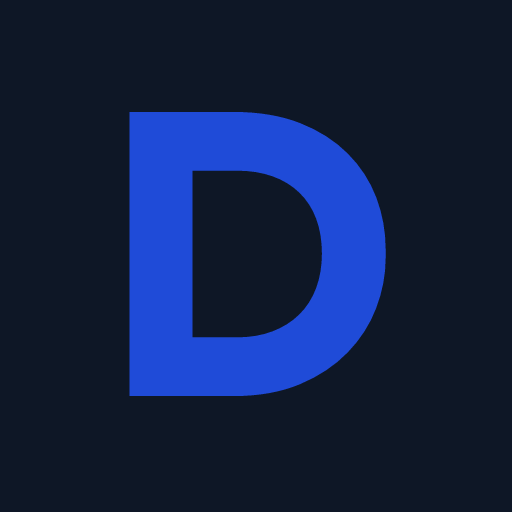
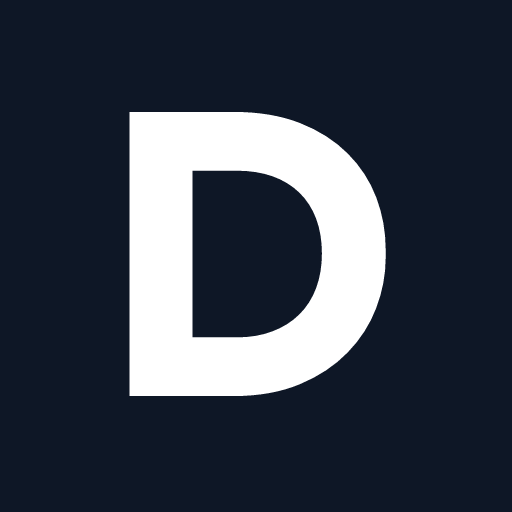
Draw the placeholder D as a path in the card colour.
Browsers no longer substitute their own Sora, and the letter uses the light text colour on ink so the 16px mark stays readable.

Changed region(s): [[0.25, 0.2188, 0.7812, 0.7812]]

diff --git a/tests/brand-mark.test.ts b/tests/brand-mark.test.ts
@@ -50,13 +50,16 @@ describe("brand mark", () => {
     expect(layout).not.toMatch(/rev\s*b/i);
   });
 
-  it("ships a D monogram from the day ink and blueprint tokens", () => {
+  it("ships a path D in the day card colour on an ink tile", () => {
     const ink = dayToken("ink");
-    const blueprint = dayToken("blueprint");
+    // Pressed theme toggle: light text on ink is --card, not blueprint.
+    const onInk = dayToken("card");
     const svg = read("src/app/icon.svg").toString("utf8");
     expect(svg).toContain(`fill="${ink}"`);
-    expect(svg).toContain(`fill="${blueprint}"`);
-    expect(svg).toContain(">D<");
+    expect(svg).toContain(`fill="${onInk}"`);
+    expect(svg).not.toContain(`fill="${dayToken("blueprint")}"`);
+    expect(svg).toContain("<path");
+    expect(svg).not.toContain("<text");
     expect(svg).not.toMatch(/set-square|M21 43/i);
 
     const frames = icoFrames(read("src/app/favicon.ico"));

diff --git a/scripts/brand-icon.ts b/scripts/brand-icon.ts
@@ -2,7 +2,8 @@
  * Rasterize `src/app/icon.svg` into the Next.js app icons.
  *
  * The SVG is the only artwork. Day tokens live in that file (`--ink` and
- * `--blueprint` from `src/app/globals.css`). Replace the SVG, then run:
+ * `--card`, the light text colour on ink, from `src/app/globals.css`).
+ * Replace the SVG, then run:
  *
  *   npm run brand-icon
  *

diff --git a/docs/ROADMAP.md b/docs/ROADMAP.md
@@ -22,7 +22,6 @@ Status of Defend It on `main` as of 22 Oct 2026. #2, #3 (including #13 and #14),
 - **Shareable receipt cards.** `/r/[id]` emits Open Graph and Twitter `summary_large_image` metadata and a 1200×630 image drawn by the same helper as challenge cards (`renderOgCard`). The headline uses the tiers in `src/lib/challenge-tier.ts` (Strong at 85, Defended from 70 to 84, otherwise Still sharpening). A challenge result keeps the visibility the defender stored: public shows the score, score-hidden shows the tier and not the number, and private is a generic card. A sample demo (`payload.demo.sample`, read through `getReceipt`) says "Sample demo · Not a credential" and shows no score. The image URL includes the visibility so a change misses the cache.
 - **Live calibration follow-up** ([#19](https://github.com/torukmakto3/defendit/issues/19)). The 2026-10-22 Liquid council run (gpt-oss-120b, deepseek-v3.2, llama-3.3-70b-instruct) is in `docs/calibration/2026-10-22-live.md`. The grader timeout default is 55s, inside the 120s defend route. A grader retries once on 503 overloaded and 404 model_not_found, and that retry still goes through the per-defense cost cap. An all-non-answer defense scores zero without calling the council, and that receipt is labeled `rule:non-answer` rather than a council model. The grading prompt is rubric `defend-it-rubric-v0.5`. `GRADER_TIMEOUT_MS` is clamped near 59s, and a budget-fallback grader stops 10s before the route deadline. Calibration uses authored strong answers and an on-topic vague weak set. `npm run calibrate` refuses a live router or a council under two pinned models, reuses one claim map per fixture, and prints per-model scores, disagreements of 2+ rubric levels, latency, and cost.
 - **First-party funnel analytics** ([#46](https://github.com/torukmakto3/defendit/pull/46)). `analytics_events` counts a 7-day beta funnel by event name: landing, sign-in, defense, Learn opens, receipt share, and the challenge steps. No third-party tracker, no analytics cookies, no IP or user agent, no account, session, receipt, or challenge id, and no document content. Anonymous visits honor Do Not Track and Global Privacy Control. Events older than 90 days are deleted by the purge job. `/admin` shows the last 7 days and the conversion between steps. Challenge steps are recorded from `src/lib/challenges.ts` (no account, session, receipt, or challenge id). `GET /api/stats` (Bearer `STATS_TOKEN`) returns counts only for the daily dashboard. Unset `STATS_TOKEN` answers 404; a wrong token answers 401. Beacon and stats limits use `ipLimitKey`. When `ipHash` is null those per-address buckets are skipped, and the beacon still enforces the global cap. `rate_limits` does not store the address. `/privacy` describes the event row. Sample demos — request kind `demo`, an email ending in `@demo.defendit.invalid`, or a receipt `payload.demo` — stay out of sign-ups, defenses, pass rates, receipts, and average cost, and are reported as `demo.started`, `demo.completed`, and `demo.budget_cents`. A defense with kind `demo` is not written, so it stays out of the `/admin` event steps. `ANALYTICS_ENABLED=false` turns recording off.
-- **Tab icon** ([#55](https://github.com/torukmakto3/defendit/issues/55)). Placeholder while the logo is on hold: a plain D in day `blueprint` on a day `ink` tile, both from `src/app/globals.css`. `src/app/icon.svg` is the source. `npm run brand-icon` writes `favicon.ico` (16/32/48), `icon.png` (512), and an opaque `apple-icon.png` (180). The header no longer shows the Rev B label.
 
 ## Next
 

diff --git a/docs/HANDOFF.md b/docs/HANDOFF.md
@@ -9,6 +9,7 @@ YYYY-MM-DD BLOCKED — what stopped the work · what the next agent needs
 
 ## Log
 
+2026-10-22 DONE — Tab icon D is a path in day card on the ink tile, so the browser glyph matches the PNG and ICO and the 16px mark is light-on-ink. Roadmap bullet removed. · PR #56 · tsc, eslint, vitest (384), brand e2e
 2026-10-23 DONE — support@defendit.me for legal, privacy, score review, and deletion; hello@defendit.me for general FAQ contact. The placeholder email and its legal-review TODO are gone; draft marks on the legal pages stay. Webhook lists include charge.succeeded (17 events, matching HANDLED). · PR #58 · tsc, eslint, vitest (447), e2e (14)
 2026-10-22 DONE — Yearly refill stop is written in the refund transaction, and Stripe Checkout is rebased onto ef320ab (#46). Funnel analytics and the Stripe paragraph both stay. Billing stays off. · PR #47 · tsc, eslint, vitest (425)
 2026-10-22 DONE — Stripe credit follow-up on #47: a pack refund cannot spend another pack, a partial yearly refund leaves refills running, a full refund or dispute stops refills without canceling, and the next paid invoice grants. Year-2 months follow that year's charge. Billing stays off. · PR #47 · tsc, eslint, vitest (385)
